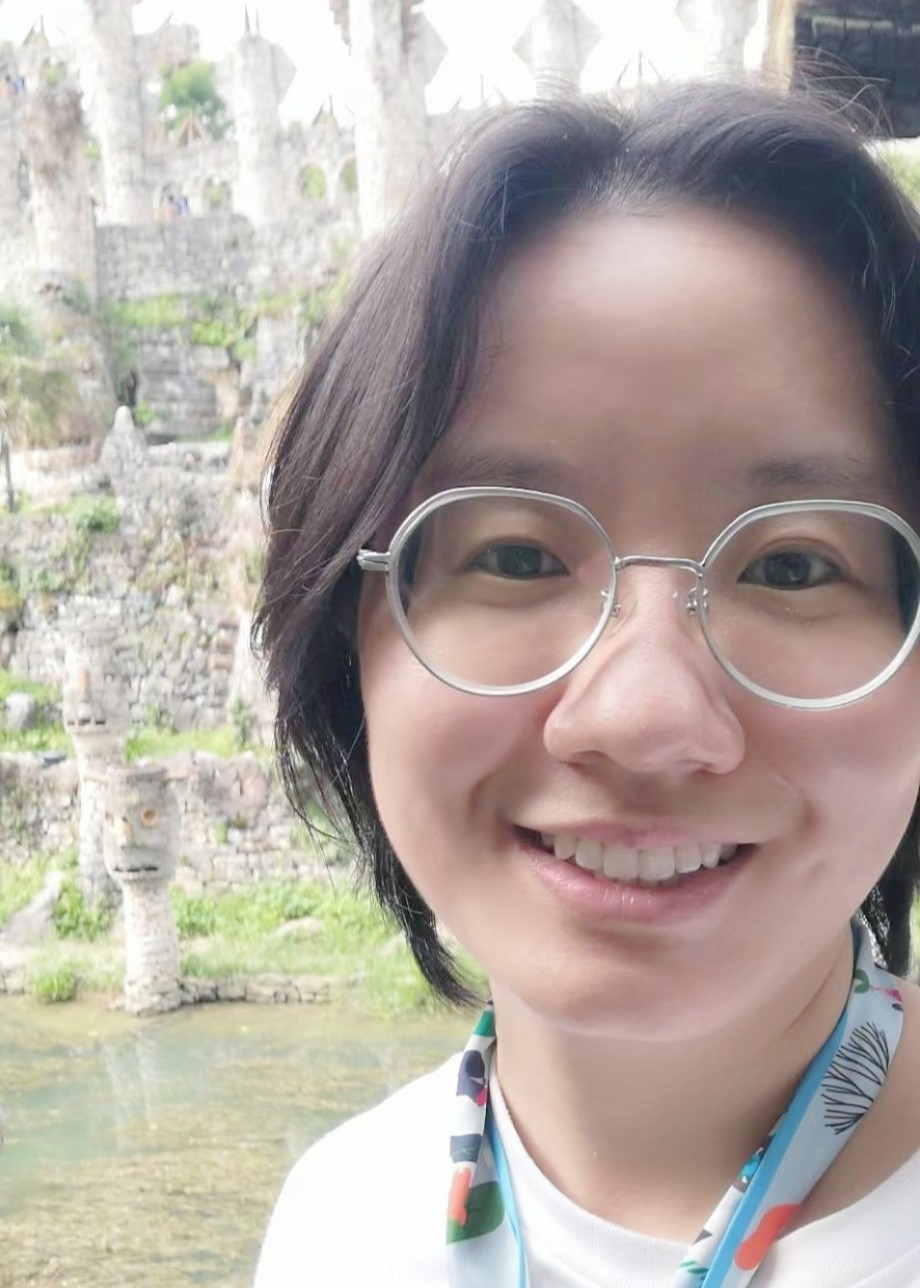
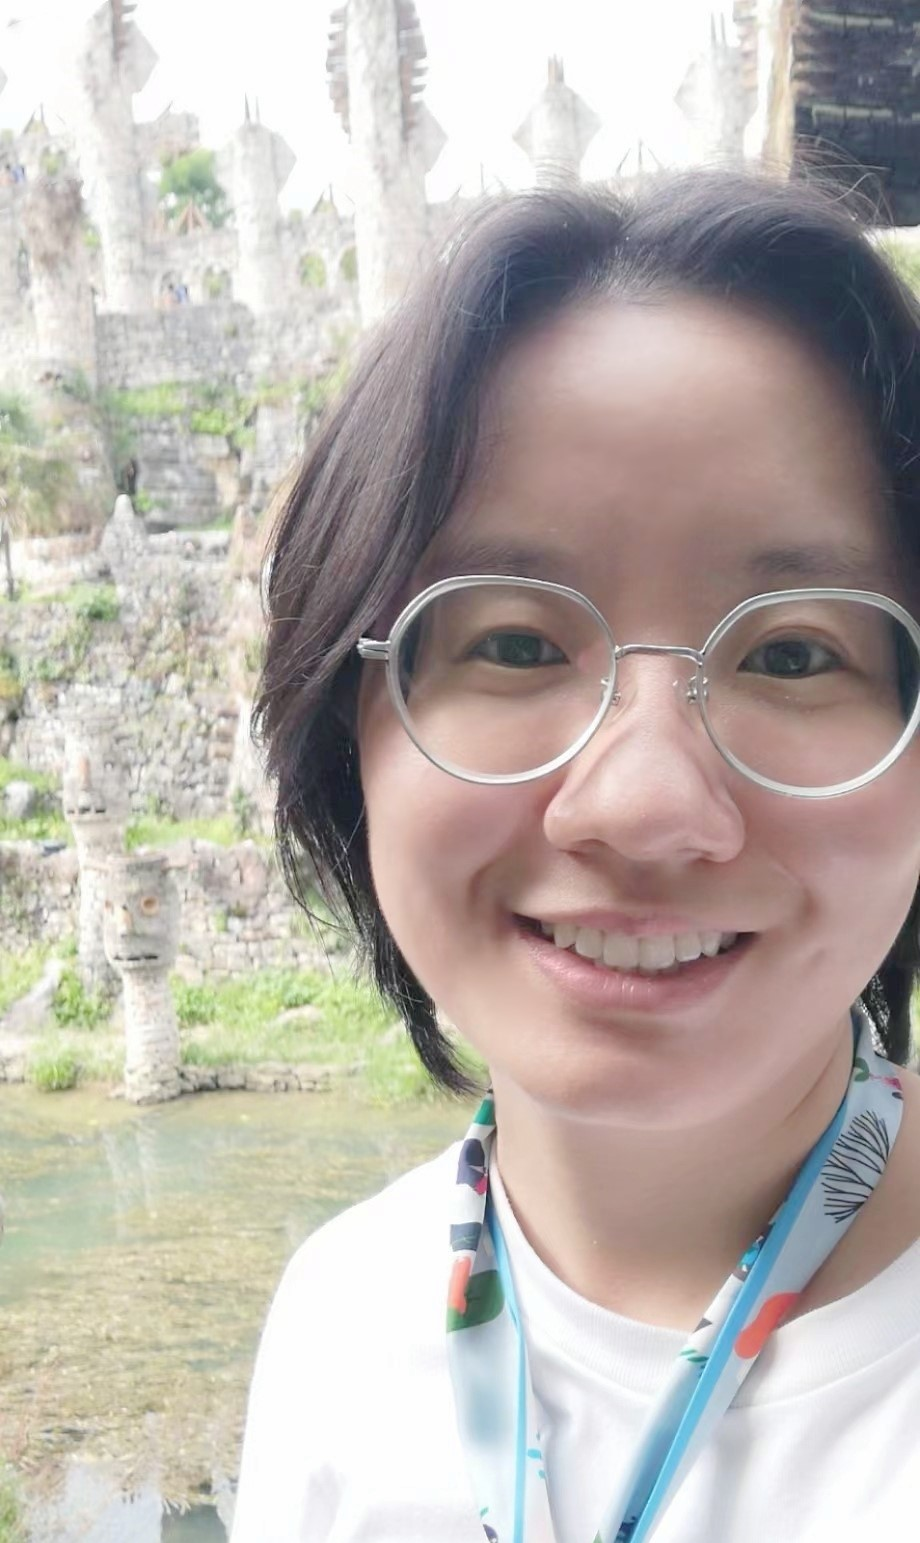
clear

diff --git a/content/_index.md b/content/_index.md
@@ -2,7 +2,7 @@
 ---
 
 {{< figure 
-    src="/info/new.jpg"
+    src="/info/profile.jpg"
     alt="Profile"
     width="200px"
     caption="Welcome to my website!"
